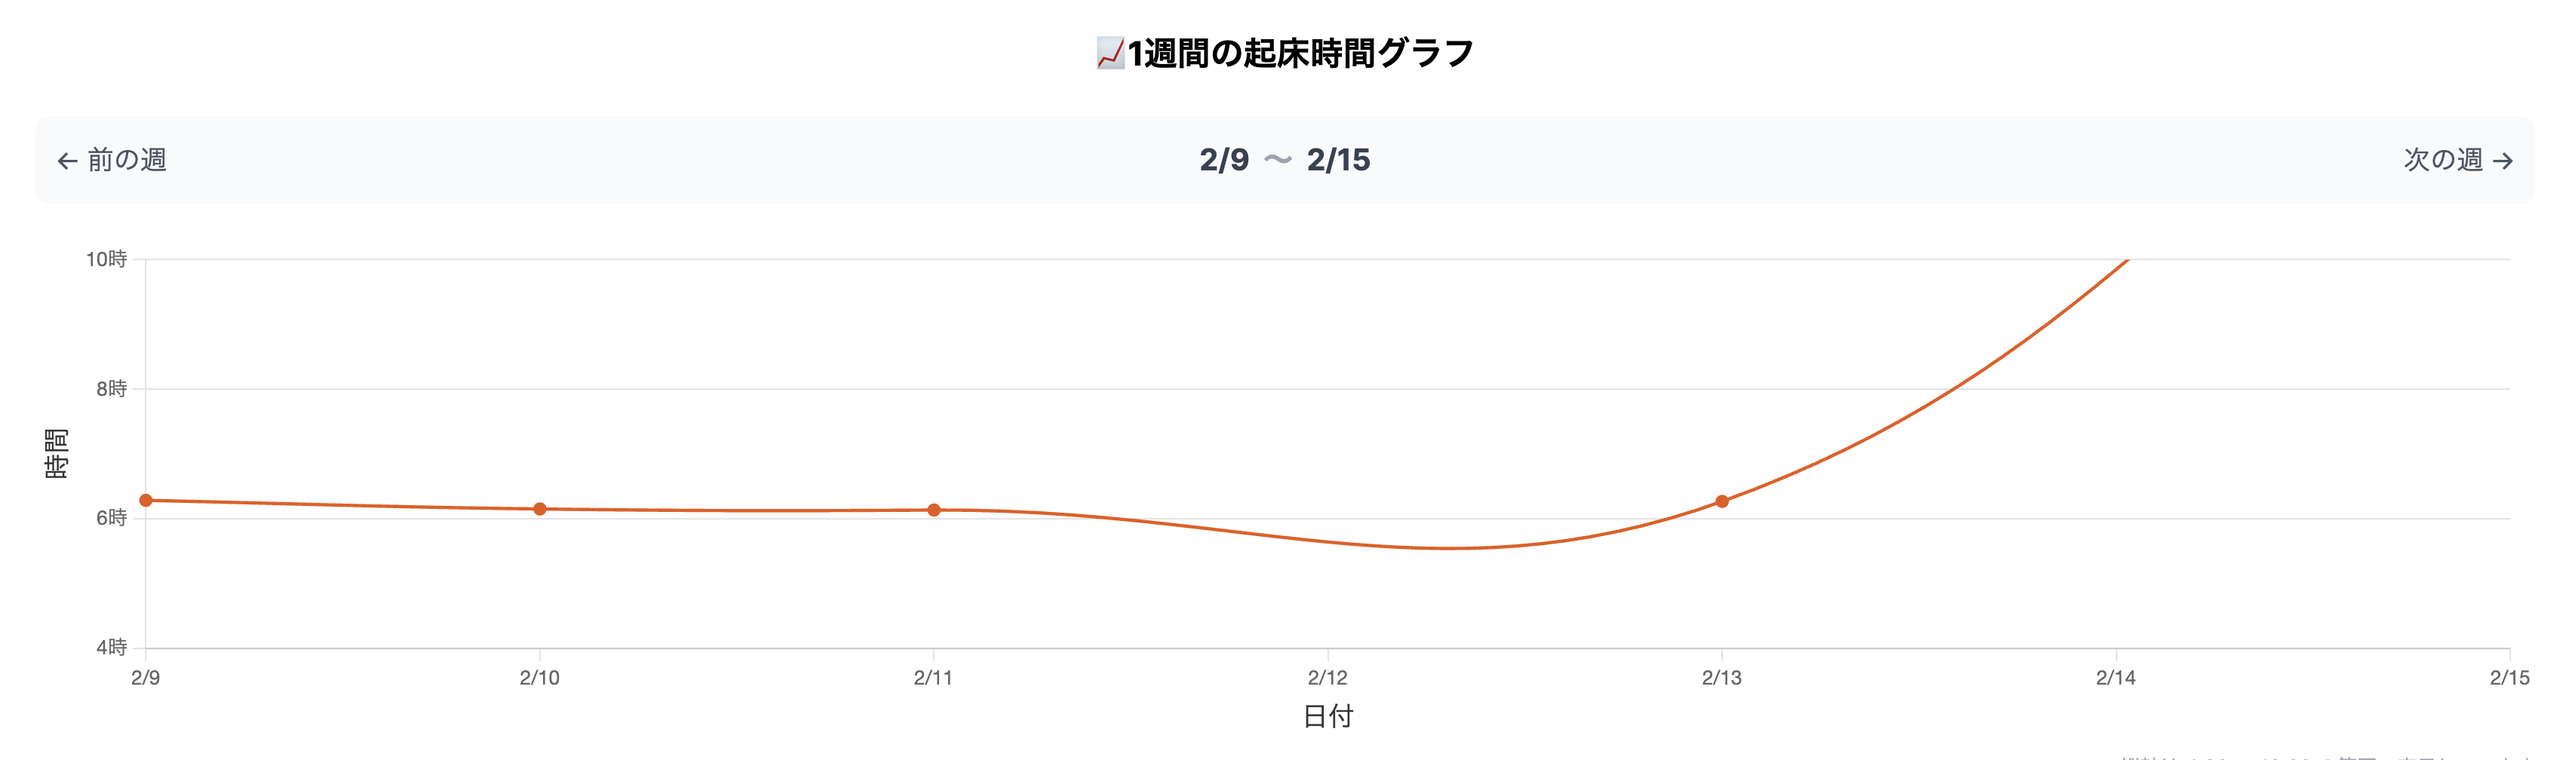
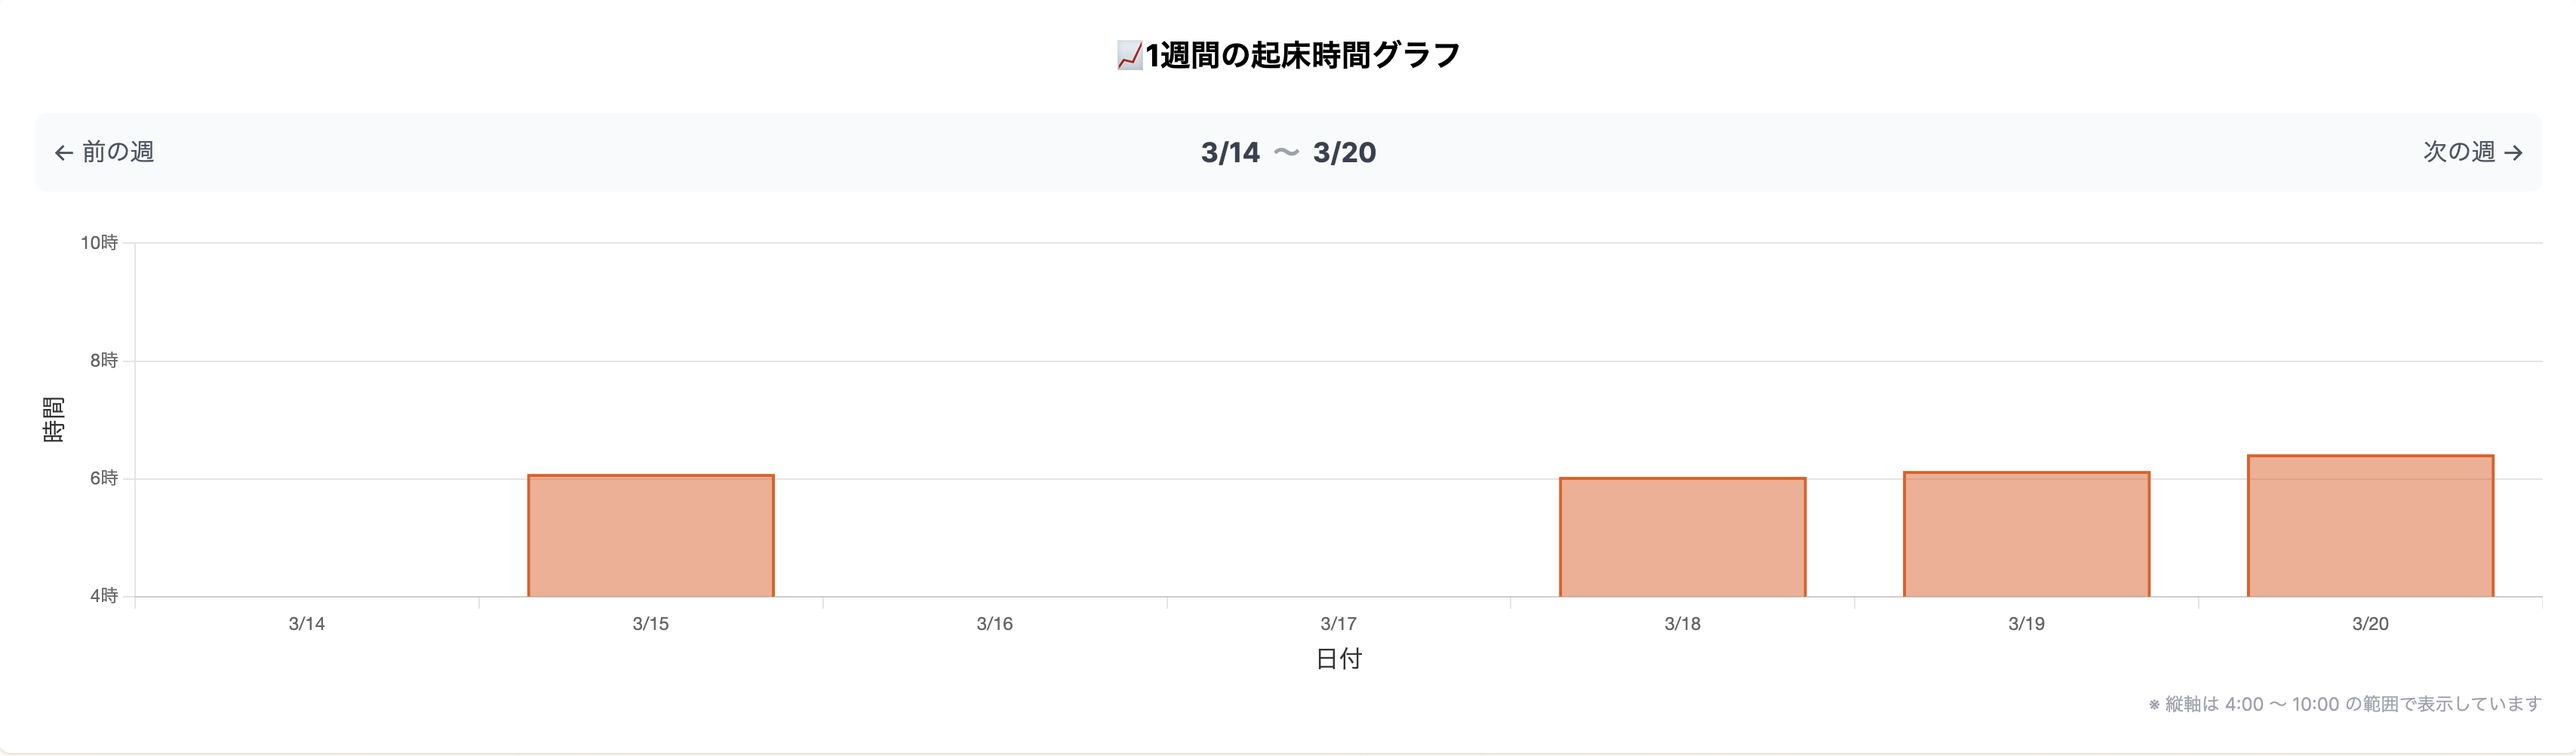
fix/コメントの修正

diff --git a/app/models/wake_up_log.rb b/app/models/wake_up_log.rb
@@ -42,20 +42,22 @@ class WakeUpLog < ApplicationRecord
     # すでに付与済みなら何もしない
   end
 
-  # マルチ: 全員が成功した場合のみ、全員に「参加人数 × 1ポイント」を付与
+  # マルチ: 全員が成功した場合のみ、全員に1ポイントを付与
   def try_grant_multi_points
     # Challenge#members が「ホスト + 参加者」を返す前提
     members = challenge.members
-    n = members.size
-    return if n.zero?
+    all_member = members.size
+    # メンバーが0ならここで終了
+    return if all_member.zero?
 
     all_success = members.all? do |member|
       member.wake_up_logs.exists?(
         challenge_id: challenge.id,
         target_date: target_date,
-        status: WakeUpLog.statuses[:success]
+        status: WakeUpLog.status[:success]
       )
     end
+    # もし全員が成功（all_success）していなければ、ここで処理を終了する
     return unless all_success
 
     members.each do |member|

diff --git a/app/models/challenge.rb b/app/models/challenge.rb
@@ -169,9 +169,11 @@ class Challenge < ApplicationRecord
 
   # ソロ: ホストのみ / マルチ: ホスト + 参加者
   def members
-    return [ user ] if solo?
-
+    if solo?
+      return [ user ]
+    else
     ([ user ] + participants.to_a).uniq
+    end
   end
 
   # 削除は起床時刻の60分前まで
